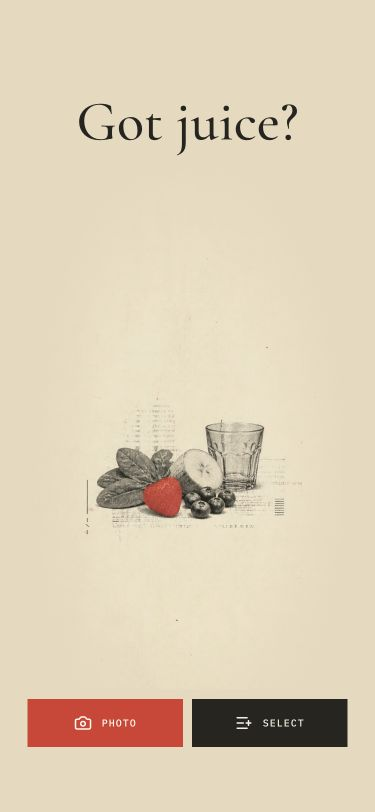
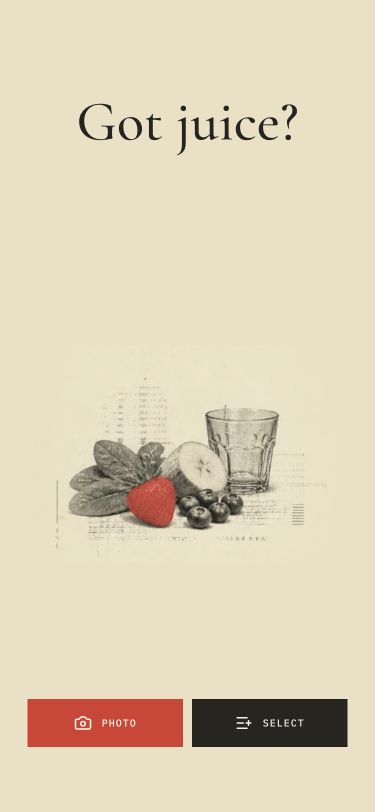
Use cropped landing artwork

Changed region(s): [[0.176, 0.4926, 0.7627, 0.6773], [0.7333, 0.6158, 0.8213, 0.6466]]

diff --git a/src/index.css b/src/index.css
@@ -98,7 +98,7 @@ button:disabled { cursor: not-allowed; }
   position: relative;
   min-height: 100svh;
   overflow: hidden;
-  background-color: #e7d9bd;
+  background-color: #ebdfc2;
 }
 
 .landing-page::before {
@@ -108,10 +108,10 @@ button:disabled { cursor: not-allowed; }
   pointer-events: none;
   background-image: url('/assets/zine-produce-study.webp');
   background-position: center 58%;
-  background-size: auto 64%;
+  background-size: min(82vw, 500px) auto;
   background-repeat: no-repeat;
-  -webkit-mask-image: radial-gradient(ellipse 48% 43% at 50% 58%, #000 48%, transparent 90%);
-  mask-image: radial-gradient(ellipse 48% 43% at 50% 58%, #000 48%, transparent 90%);
+  -webkit-mask-image: radial-gradient(ellipse 48% 31% at 50% 58%, #000 48%, transparent 92%);
+  mask-image: radial-gradient(ellipse 48% 31% at 50% 58%, #000 48%, transparent 92%);
 }
 
 .landing-copy {

diff --git a/design-qa.md b/design-qa.md
@@ -2,18 +2,18 @@
 
 ## Evidence
 
-- Source visual truth: `/var/folders/rf/kb7vbr1n0dvdj882p6twxsrw0000gn/T/codex-clipboard-0f1d4b3f-80aa-4123-a3c5-47ce35d7af6a.png`
+- Source visual truth: `/var/folders/rf/kb7vbr1n0dvdj882p6twxsrw0000gn/T/TemporaryItems/NSIRD_screencaptureui_uyIIDO/Screenshot 2026-08-19 at 3.41.20 PM.png`
 - Primary implementation: `design-mobile-landing.png`
 - Combined comparison: `design-qa-comparison.png`
 - Supporting states: `design-mobile-photo-entry.png`, `design-mobile-photo-review.png`, `design-mobile-recipe.png`, `design-desktop-landing.png`
-- Source dimensions: 972 x 1619 px
+- Source dimensions: 500 x 352 px
 - Mobile implementation: 375 x 812 CSS px, 375 x 812 px capture, device scale factor 1
 - Desktop implementation: 1440 x 900 CSS px, 1440 x 900 px capture, device scale factor 1
 - State: simplified production landing page, manual ingredient flow, photo review, and completed recipe
 
 ## Full-View Comparison
 
-The combined comparison shows the supplied artwork and mobile implementation at the same 812 px height. The produce study is intentionally scaled down inside the ivory paper field, preserving the central cluster and red fruit anchor while restoring more negative space. The only landing copy is the requested title and two compact actions.
+The combined comparison shows the supplied cropped artwork beside the mobile implementation. The complete 500 x 352 composition is scaled down inside the ivory paper field without re-cropping, preserving its produce cluster, red fruit anchor, glass, and archival markings. The only landing copy is the requested title and two compact actions.
 
 ## Focused Evidence
 
@@ -27,7 +27,7 @@ The combined comparison shows the supplied artwork and mobile implementation at 
 - Fonts and typography: Cormorant Garamond supplies the editorial serif display voice; Special Elite and IBM Plex Mono reproduce the reference's typewriter and archival-label contrast. Mobile titles wrap cleanly and compact labels remain legible.
 - Spacing and layout rhythm: the primary cluster stays centered with broad paper margins. Mobile controls remain within 335 px, while desktop content holds a restrained 520-620 px working width.
 - Colors and tokens: warm ivory paper, charcoal ink, faded gray metadata, and one tomato-red action/selection color match the reference's restrained palette logic.
-- Image quality and asset fidelity: the generated produce study is a real raster asset with halftone, xerox wear, aged paper, and a visible red fruit anchor. It is correctly cropped at mobile and desktop sizes.
+- Image quality and asset fidelity: the user-supplied produce crop is used directly as a raster asset with its halftone wear, aged paper, glass, and red fruit anchor intact. It is scaled responsively without further cropping.
 - Copy and content: the landing page contains only “Got juice?”, “Photo”, and “Select”. The first Photo screen contains only “Take a Photo” and “Upload a Photo”.
 
 ## Comparison History
@@ -37,6 +37,7 @@ The combined comparison shows the supplied artwork and mobile implementation at 
 - P2: the first landing direction contained substantially more editorial copy and treated the produce study as an inset figure. Replaced it with the artwork as a full-viewport background and reduced the visible interface to one title and two actions. Mobile and desktop captures confirm the cluster remains visible without overflow.
 - P2: the full-background crop made the fruit cluster too visually dominant. Reduced the artwork to 64% of the viewport height and verified the smaller composition at 375 x 812 and 1440 x 900 without overflow.
 - P2: the artwork canvas initially formed a faint lighter rectangle against the page. Sampled its edge color, matched the landing background to `#e7d9bd`, and softly masked the raster perimeter so the paper field now renders as one continuous surface.
+- P2: the landing still used the original tall poster asset after the desired composition had been cropped externally. Replaced it with the supplied 500 x 352 crop, matched the page to its `#ebdfc2` paper edge, and changed responsive sizing from height-based to width-based so the full crop remains visible.
 
 ## Findings
 
